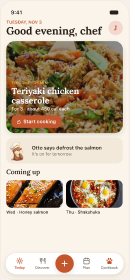
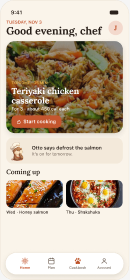
docs: otto-next current — every card shows a v3 screen
New Figma page "v3 · Flow screens" in Otto — App Redesign: the 23 v2
screens copied onto a new four-tab bar component (Home · Plan ·
Cookbook · Account) with the real $39.99/yr price, plus 29 new
screens built from v2 parts (welcome, four food questions, taste
swipe, building, email sign-up, reminders, Apple sheet, welcome to
the Club, purchase failed, restore, AI consent, search, offline,
lock-screen notification, Account home and settings, sign out and
delete alerts, mise en place, share list, camera alert, import review,
editor). All 58 cards on the flow map now use them, in Figma and HTML.

Claude-Session: https://claude.ai/code/session_014pS8UXPanZ54E7nGt3nsw1

Changed region(s): [[0.2769, 0.8857, 0.7077, 1.0], [0.7385, 0.9143, 0.9231, 0.9714], [0.0923, 0.9143, 0.2462, 0.9714]]

diff --git a/docs/flow-maps/maps/otto-next.html b/docs/flow-maps/maps/otto-next.html
@@ -354,10 +354,19 @@ const E=[
  ["signin","retm","signed in",1],
 ];
 
-/* ---------------------------------------------------------------- SCREENS from the v2 redesign (Figma "Otto — App Redesign", v2 pages) */
-const IMG={first:"splash",scenes:"onb1",signin:"signin",forgot:"forgot",who:"who",skip:"skip",week:"firstweek",save:"signup",pay:"paywall",
- thome:"today",tonight:"today",discover:"discover",ask:"chatStart",recipe:"recipe",steps:"cookStep",finish:"dinnerDone",shared:"recipe",
- tplan:"planFilled",pweek:"planFilled",pday:"planActions",ppick:"planOpen",potto:"ottoWeek",pshop:"shopping",tbook:"cookbook",bsaved:"cookbook",badd:"bringIn"};
+/* ---------------------------------------------------------------- SCREENS: Figma "Otto — App Redesign", page "v3 · Flow screens" */
+const IMG={first:"splash",notif:"notif",shared:"recipe",offline:"offline",retm:"today",retn:"paywall",
+ welcome:"welcome",scenes:"onb1",signin:"signin",forgot:"forgot",
+ who:"who",diet:"diet",allergy:"allergy",skip:"skip",time:"time",goal:"goal",
+ taste:"taste",building:"building",week:"firstweek",
+ save:"signup",email:"email",remind:"remind",
+ pay:"paywall",buy:"buy",club:"club",fail:"fail",restore:"restore",
+ thome:"today",tplan:"planFilled",tbook:"cookbook",tacct:"tacct",
+ tonight:"today",thisweek:"today",discover:"discover",search:"search",ask:"chatStart",consent:"consent",
+ recipe:"recipe",mise:"mise",steps:"cookStep",finish:"dinnerDone",
+ pweek:"planFilled",pday:"planActions",ppick:"planOpen",potto:"ottoWeek",pshop:"shopping",phouse:"phouse",
+ bsaved:"cookbook",badd:"bringIn",bcam:"bcam",breview:"breview",bedit:"bedit",
+ amember:"amember",aprefs:"aprefs",anotif:"anotif",ajournal:"ajournal",aout:"aout",adelete:"adelete"};
 
 /* ---------------------------------------------------------------- THUMBNAILS (mini wireframes) */
 function thumb(k,c){
@@ -394,7 +403,7 @@ function thumb(k,c){
 const PW=300, GAP=24, CW=276, CH=150, RP=174, PX=12, TOP=206, PTOP=44, LANE=26;
 const canvas=document.getElementById("canvas"), svg=document.getElementById("edges"), view=document.getElementById("view"), sizer=document.getElementById("sizer"), zoom=document.getElementById("zoom");
 document.getElementById("legend").innerHTML=LEG.map(([t,c])=>`<span><i style="background:var(${c})"></i>${t}</span>`).join("")+
- `<span><svg width="30" height="8"><line x1="0" y1="4" x2="30" y2="4" stroke="var(--ink-soft)" stroke-width="1.6"/></svg>next screen</span><span><svg width="30" height="8"><line x1="0" y1="4" x2="30" y2="4" stroke="var(--ink-soft)" stroke-width="1.6" stroke-dasharray="5 5"/></svg>optional · branch · back</span><span>Each card is one screen: “new”, or what it is in today’s app.</span><span>Picture = the v2 redesign screen · wireframe = not designed yet. v2 screens still show the old 5-tab bar and sample prices.</span>`;
+ `<span><svg width="30" height="8"><line x1="0" y1="4" x2="30" y2="4" stroke="var(--ink-soft)" stroke-width="1.6"/></svg>next screen</span><span><svg width="30" height="8"><line x1="0" y1="4" x2="30" y2="4" stroke="var(--ink-soft)" stroke-width="1.6" stroke-dasharray="5 5"/></svg>optional · branch · back</span><span>Each card is one screen: “new”, or what it is in today’s app.</span><span>Every picture is a v3 screen: the v2 designs moved to four tabs and real prices, plus the new screens drawn in the same style.</span>`;
 const colX=c=>24+c*(PW+GAP);
 const el={}, pos={};
 let maxRow=0;
